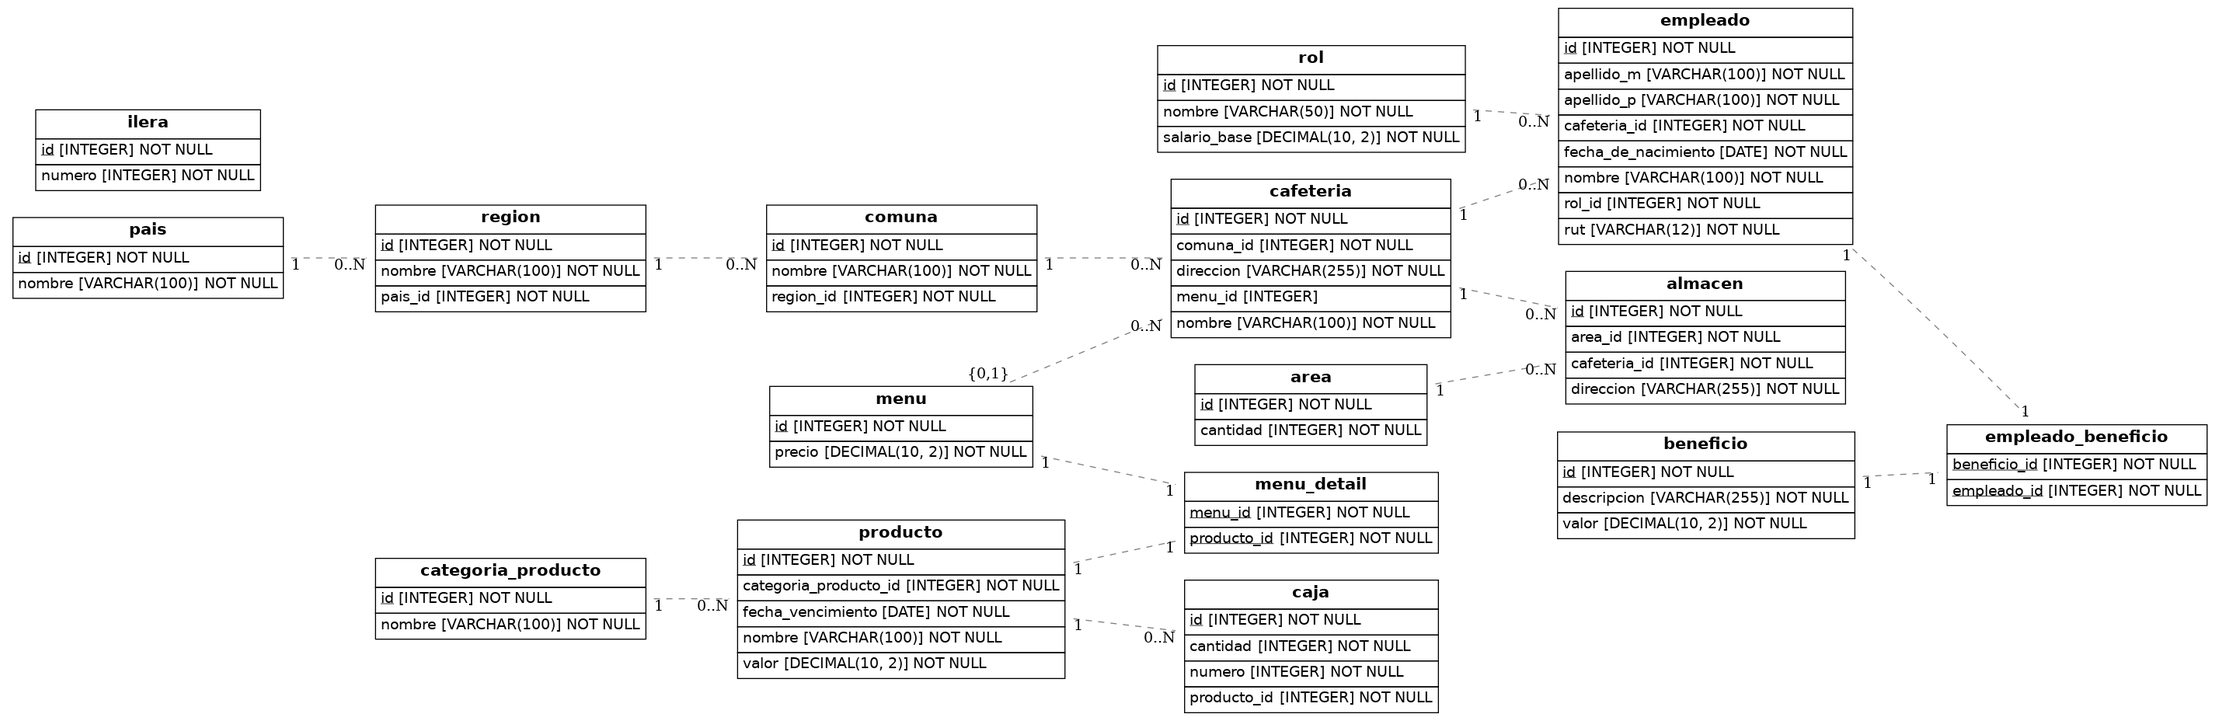
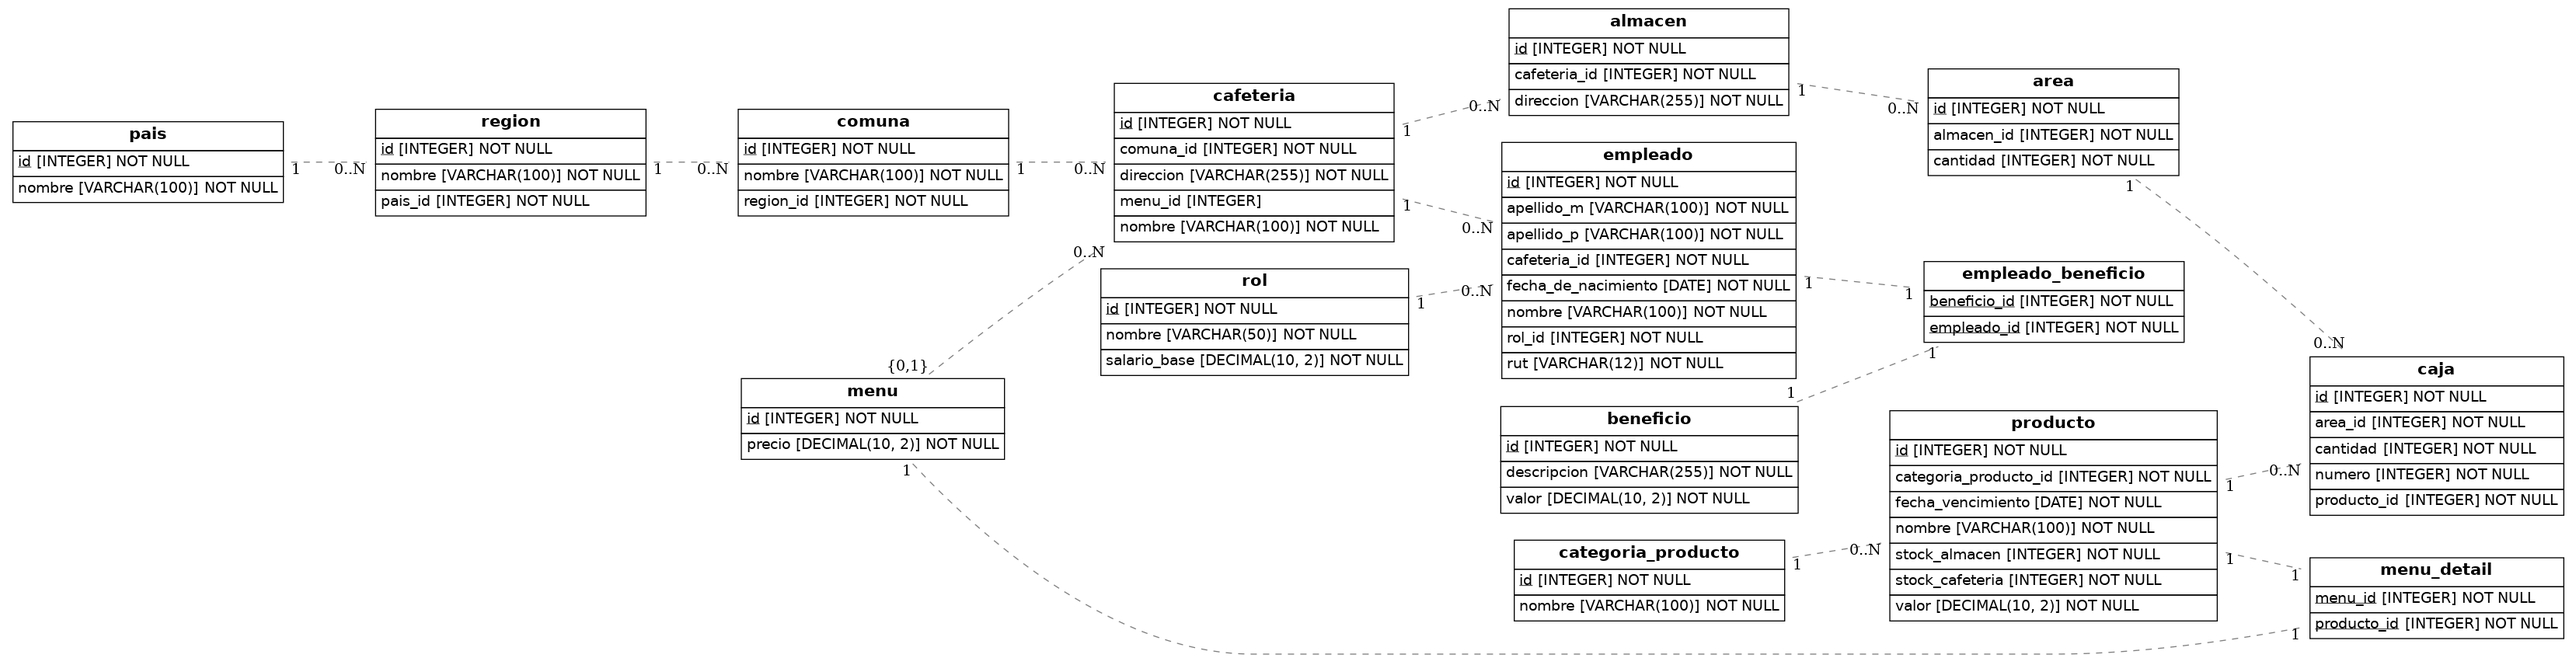
new diagram

Changed region(s): [[0.0, 0.0, 0.9972, 1.0], [0.8725, 0.8595, 0.9972, 0.9823], [0.9037, 0.5218, 0.9349, 0.5525]]

diff --git a/src/models.py b/src/models.py
@@ -87,6 +87,8 @@ class Producto(Base):
     nombre = Column(String(100), nullable=False)
     fecha_vencimiento = Column(Date, nullable=False)
     valor = Column(DECIMAL(10, 2), nullable=False)
+    stock_cafeteria = Column(Integer, nullable=False, default=0)  # Control de stock en la cafetería
+    stock_almacen = Column(Integer, nullable=False, default=0)    # Control de stock en el almacén
 
     # Foreign Key y relación con categoría de producto
     categoria_producto_id = Column(Integer, ForeignKey('categoria_producto.id'), nullable=False)
@@ -119,40 +121,38 @@ class Almacen(Base):
     id = Column(Integer, primary_key=True, autoincrement=True)
     direccion = Column(String(255), nullable=False)
 
-    # Relación con área
-    area_id = Column(Integer, ForeignKey('area.id'), nullable=False)
-    area = relationship('Area')
-
     # Foreign Key para la cafetería
     cafeteria_id = Column(Integer, ForeignKey('cafeteria.id'), nullable=False)
     cafeteria = relationship('Cafeteria')
 
-# Clase Area
+    # Relación con áreas
+    areas = relationship('Area')
+
+# Clase Area (Ahora pertenece a un Almacen)
 class Area(Base):
     __tablename__ = 'area'
     id = Column(Integer, primary_key=True, autoincrement=True)
     cantidad = Column(Integer, nullable=False)
 
-    # Relación con ilera
-    ileras = relationship('Ilera')
+    # Foreign Key y relación con almacén
+    almacen_id = Column(Integer, ForeignKey('almacen.id'), nullable=False)
+    almacen = relationship('Almacen')
 
-# Clase Ilera
-class Ilera(Base):
-    __tablename__ = 'ilera'
-    id = Column(Integer, primary_key=True, autoincrement=True)
-    numero = Column(Integer, nullable=False)
-
-    # Relación con caja
+    # Relación con cajas
     cajas = relationship('Caja')
 
-# Clase Caja
+# Clase Caja (Pertenece a un Area)
 class Caja(Base):
     __tablename__ = 'caja'
     id = Column(Integer, primary_key=True, autoincrement=True)
     numero = Column(Integer, nullable=False)
     cantidad = Column(Integer, nullable=False)
 
-    # Relación con producto
+    # Foreign Key y relación con área
+    area_id = Column(Integer, ForeignKey('area.id'), nullable=False)
+    area = relationship('Area')
+
+    # Foreign Key y relación con producto
     producto_id = Column(Integer, ForeignKey('producto.id'), nullable=False)
     producto = relationship('Producto')
 
